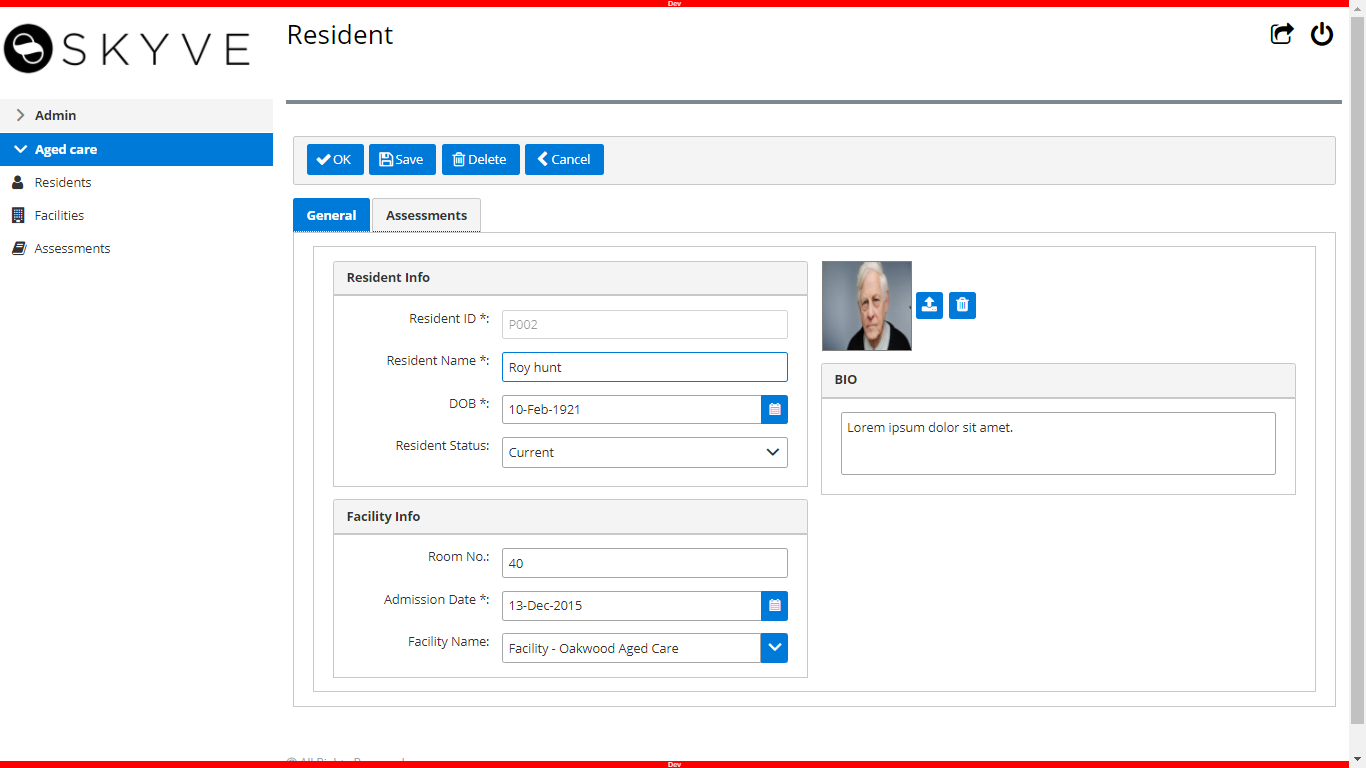
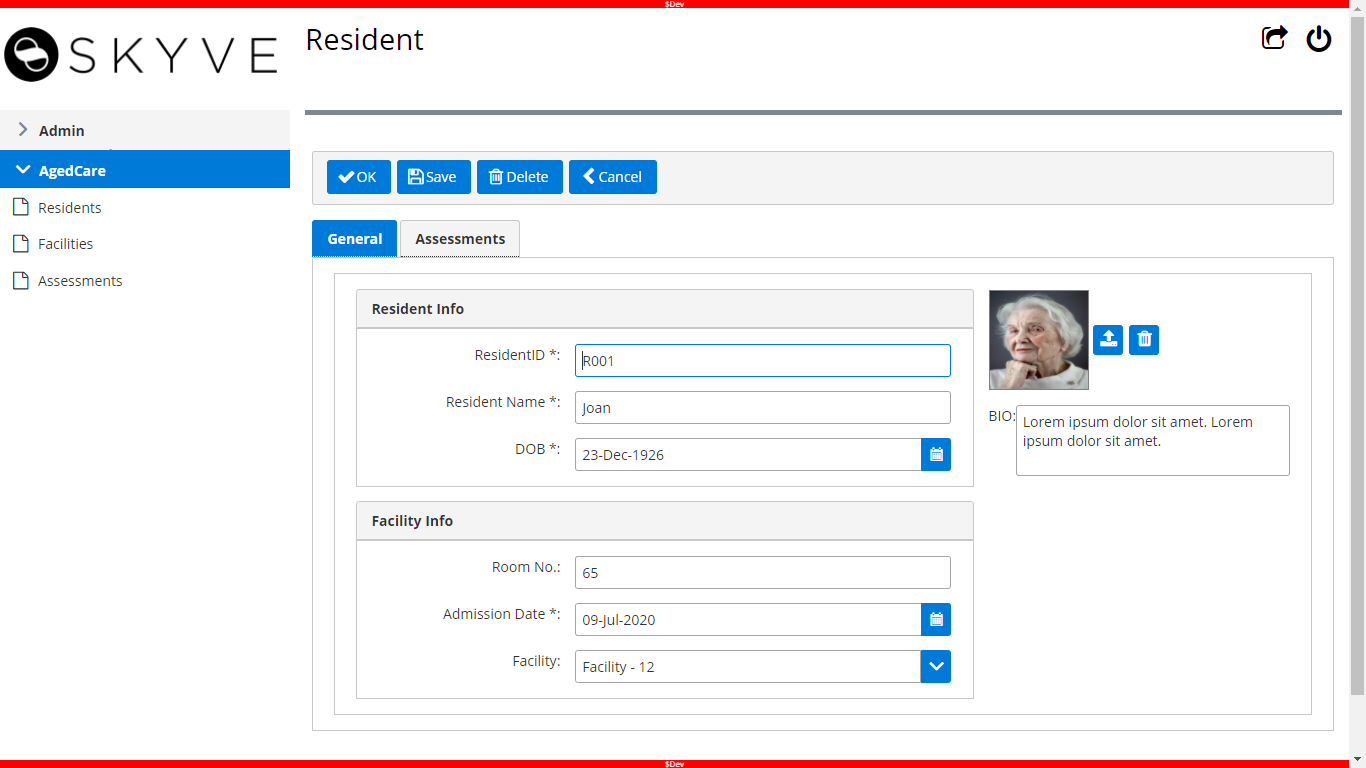
updated file

diff --git a/tutorial/chapter3.md b/tutorial/chapter3.md
@@ -872,7 +872,7 @@ Change `edit.xml` view like below:
 
 Now re-deploy the application to check that the view appears as it did before:
 
-![Resident seprate form](../doc_src_img/chapter7/11.jpg "Resident edit form")
+![Resident seprate form](../doc_src_img/chapter7/14.jpg "Resident edit form")
 
 **[⬆ back to top](#contents)**
 
